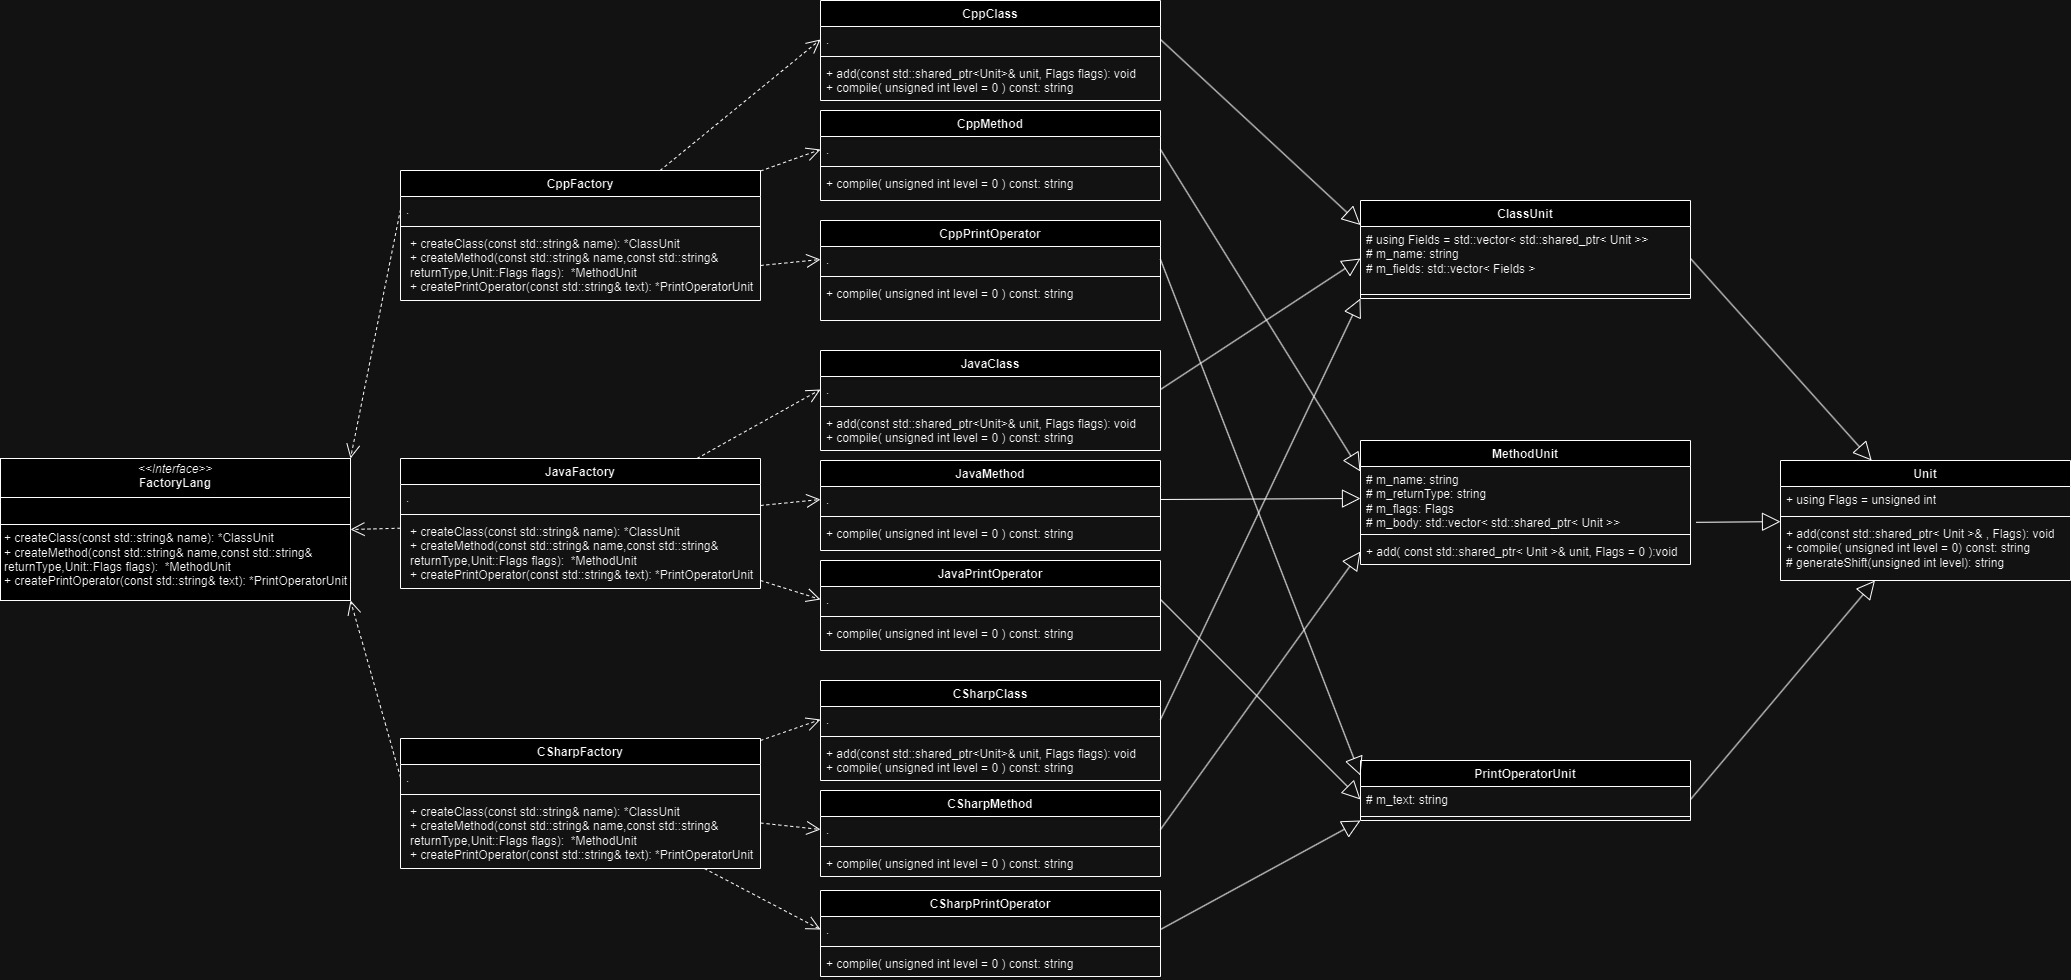
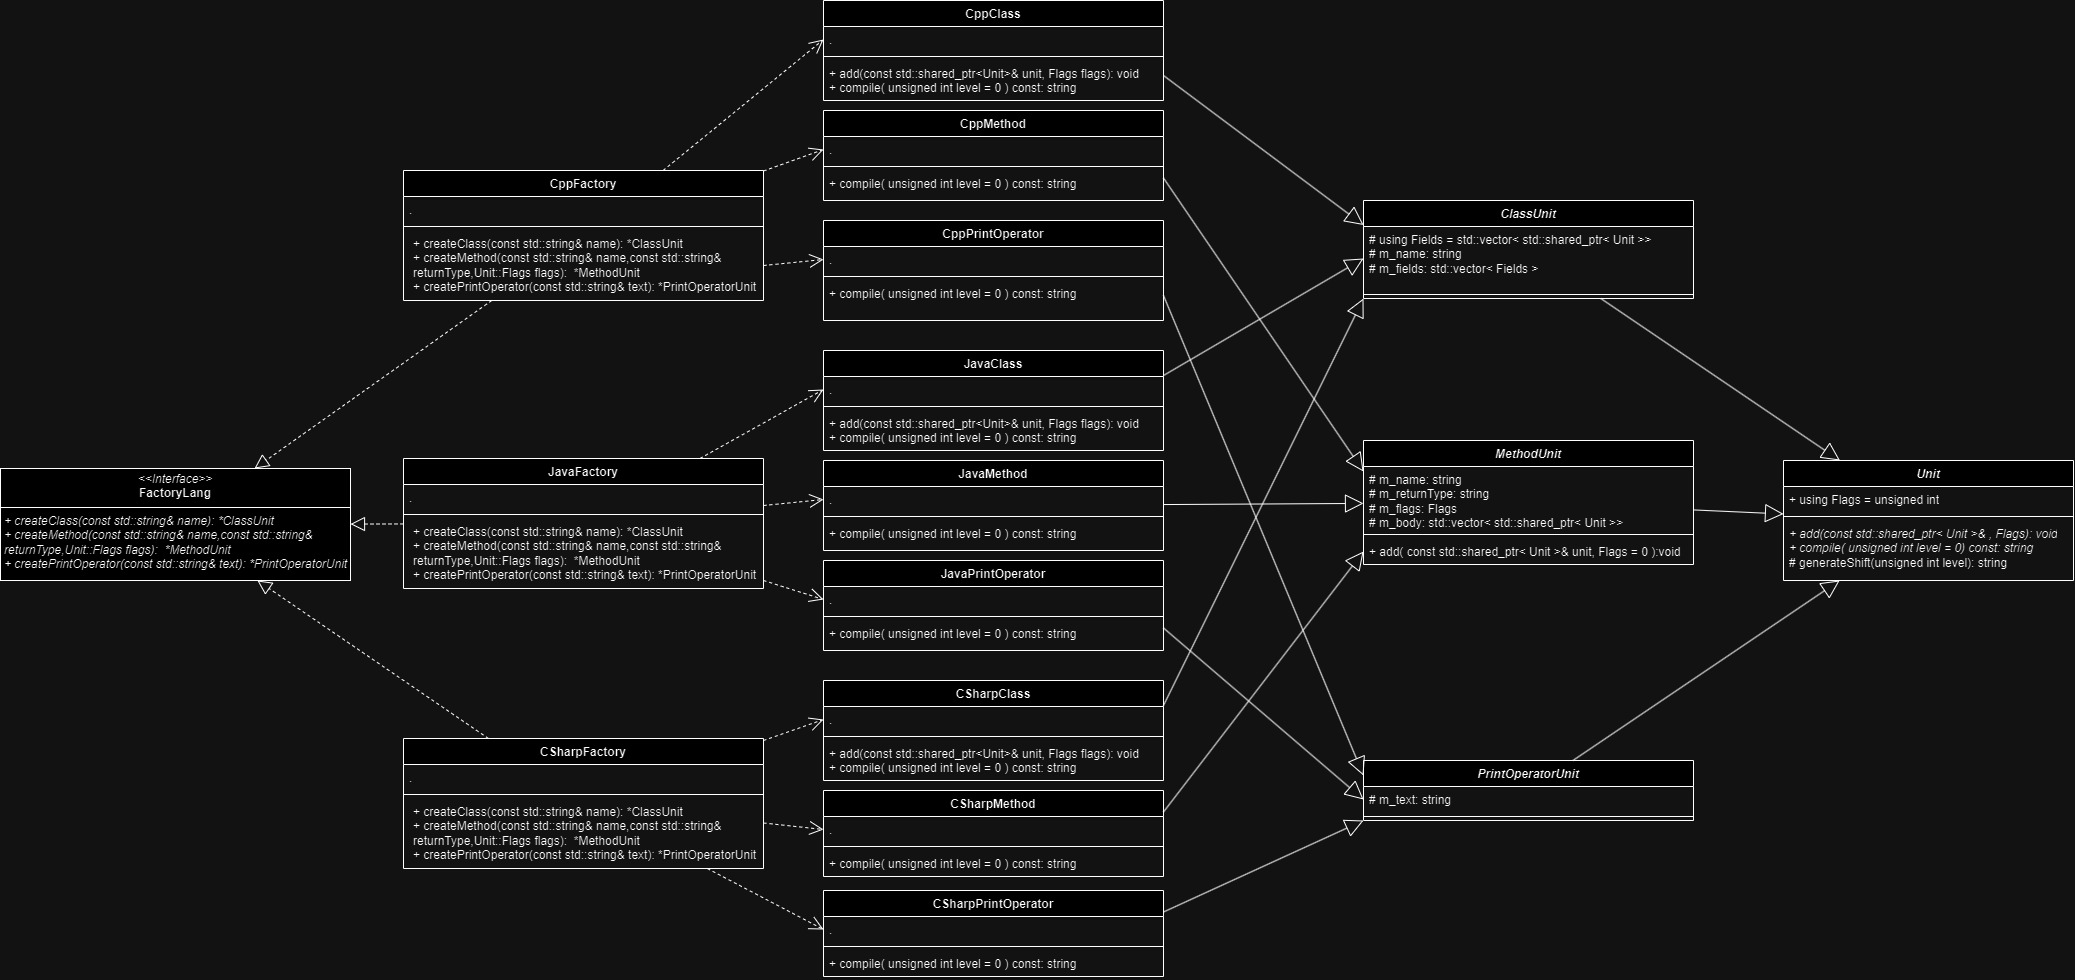
Обновлена UML диаграмма
Добавлено исключение неявного вызова конструкторов классов *Class. Добавлены комментарии для чтения программы

diff --git a/lab_3/CppClass.h b/lab_3/CppClass.h
@@ -5,7 +5,7 @@
 
 class CppClass : public ClassUnit {
 public:
-    CppClass( const std::string& name ) : ClassUnit( name ) {}
+    explicit CppClass( const std::string& name ) : ClassUnit( name ) {}  // Исключаем неявный вызов конструктора
 
     void add( const std::shared_ptr< Unit >& unit, Flags flags ) override{
         int accessModifier = PRIVATE;
@@ -14,18 +14,18 @@ public:
         } else if (flags == PUBLIC) {
             accessModifier = PUBLIC;
         }
-        m_fields[ accessModifier ].push_back( unit );
+        m_fields[ accessModifier ].push_back( unit );  // Добавляем объект в конец поля соответсвующего модификатора
     }
 
     std::string compile( unsigned int level = 0 ) const override{
         std::string result = generateShift( level ) + "class " + m_name + " {\n";
         for( size_t i = 0; i < ACCESS_MODIFIERS.size(); ++i ) {  // Пробегаемся по всем модификаторам доступа
             if( m_fields[i].empty() ) {
-                continue;
+                continue;  // Пропускаем, если вектор для данного модификатора пуст
             }
 
             result += ACCESS_MODIFIERS[ i ] + ":\n";
-            for( const auto& f : m_fields[i] ) {  // Проверяем, какие есть объекты с данным модификатором
+            for( const auto& f : m_fields[i] ) {  // Проверяем, какие есть ли еще объекты с данным модификатором
                 result += f->compile( level + 1 );  // Если нашелся, вызываем метод compile данного объекта
             }
 

diff --git a/lab_3/ClassUnit.h b/lab_3/ClassUnit.h
@@ -18,15 +18,15 @@ public:
     static const std::vector< std::string > ACCESS_MODIFIERS;
 
 
-    explicit ClassUnit( const std::string& name ) : m_name( name ) {
+    explicit ClassUnit( const std::string& name ) : m_name( name ) {  // Исключаем неявный вызов конструктора
         m_fields.resize(ACCESS_MODIFIERS.size());
     }
 
 
 protected:
     using Fields = std::vector< std::shared_ptr< Unit > >;
-    std::string m_name;
-    std::vector< Fields > m_fields;
+    std::string m_name; // Имя класса
+    std::vector< Fields > m_fields;  // Контейнер хранящий поля класса по модификаторам доступа
 };
 
 const std::vector< std::string > ClassUnit::ACCESS_MODIFIERS = { "public", "protected", "private", "private protected", "file", "internal", "protectetd internal" };

diff --git a/lab_3/CSharpClass.h b/lab_3/CSharpClass.h
@@ -5,7 +5,7 @@
 
 class CSharpClass : public ClassUnit {
 public:
-    CSharpClass( const std::string& name ) : ClassUnit( name ) {}
+    explicit CSharpClass( const std::string& name ) : ClassUnit( name ) {}  // Исключаем неявный вызов конструктора
 
     void add( const std::shared_ptr< Unit >& unit, Flags flags ) override {
         int accessModifier = PRIVATE;
@@ -27,7 +27,7 @@ public:
         else if (flags == PROTECTED_INTERNAL){
             accessModifier = PROTECTED_INTERNAL;
         }
-        m_fields[ accessModifier ].push_back( unit );
+        m_fields[ accessModifier ].push_back( unit );  // Добавляем объект в конец поля соответсвующего модификатора
     }
 
     std::string compile (unsigned int level = 0) const override {

diff --git a/lab_3/JavaClass.h b/lab_3/JavaClass.h
@@ -5,7 +5,7 @@
 
 class JavaClass : public ClassUnit {
 public:
-    JavaClass( const std::string& name ) : ClassUnit( name ) {}
+    explicit JavaClass( const std::string& name ) : ClassUnit( name ) {}  // Исключаем неявный вызов конструктора
 
     void add( const std::shared_ptr< Unit >& unit, Flags flags ) override{
         int accessModifier = PRIVATE;
@@ -15,7 +15,7 @@ public:
         else if (flags == PUBLIC) {
             accessModifier = PUBLIC;
         }
-        m_fields[ accessModifier ].push_back( unit );
+        m_fields[ accessModifier ].push_back( unit );  // Добавляем объект в конец поля соответсвующего модификатора
     }
 
     std::string compile( unsigned int level = 0 ) const override {

diff --git a/lab_3/MethodUnit.h b/lab_3/MethodUnit.h
@@ -21,10 +21,10 @@ public:
     }
 
 protected:
-    std::string m_name;
-    std::string m_returnType;
-    Flags m_flags;
-    std::vector< std::shared_ptr< Unit > > m_body;
+    std::string m_name;  // Имя метода
+    std::string m_returnType;  // Тип возвращаемого значения метода
+    Flags m_flags;  // Модификаторы метода
+    std::vector< std::shared_ptr< Unit > > m_body;  // Вектор в который мы добавляем методы
 };
 
 #endif // METHODUNIT_H

diff --git a/lab_3/JavaPrintOperator.h b/lab_3/JavaPrintOperator.h
@@ -6,6 +6,7 @@
 class JavaPrintOperator : public PrintOperatorUnit {
 public:
     JavaPrintOperator(const std::string& text) : PrintOperatorUnit(text) {}
+
     std::string compile( unsigned int level = 0 ) const override {
         return generateShift( level ) + "System.out.println(\"" + m_text + "\" );\n";
     }

diff --git a/lab_3/PrintOperatorUnit.h b/lab_3/PrintOperatorUnit.h
@@ -7,7 +7,7 @@ class PrintOperatorUnit : public Unit {
 public:
     explicit PrintOperatorUnit( const std::string& text ) : m_text( text ) { }
 protected:
-    std::string m_text;
+    std::string m_text;  // Текст передаваемый для вывода (printf)
 };
 
 #endif // PRINTOPERATORUNIT_H

diff --git a/lab_3/Unit.h b/lab_3/Unit.h
@@ -9,7 +9,7 @@
 
 class Unit {
 public:
-    using Flags = unsigned int;
+    using Flags = unsigned int;  // Создание псевдонима Flags для типа unsigned int
 
     virtual ~Unit() = default;
     virtual void add( const std::shared_ptr< Unit >& , Flags ) {
